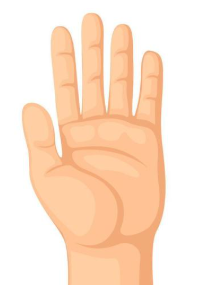
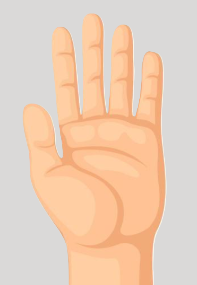
improved the game logic and added hand gestures

diff --git a/assets/script/script.js b/assets/script/script.js
@@ -4,6 +4,7 @@ let results = document.getElementById('results');
 let gameArea = document.getElementById('gameArea');
 let userPickDiv = document.getElementById('userPick');
 let computerPickDiv = document.getElementById('computerPick');
+let feedbackDiv = document.getElementById('feedback');
 let winsCountTd = document.getElementById('winscount');
 let tiesCountTd = document.getElementById('tiescount');
 let lossesCountTd = document.getElementById('lossescount');
@@ -13,6 +14,7 @@ let wins = 0;
 let ties = 0;
 let losses = 0;
 
+//Dynamically create images
 let rockImg = document.createElement('img');
 let paperImg = document.createElement('img');
 let scissorsImg = document.createElement('img');
@@ -20,8 +22,8 @@ rockImg.setAttribute('src', './assets/images/rockimage.PNG');
 paperImg.setAttribute('src', './assets/images/paperimage.PNG');
 scissorsImg.setAttribute('src', './assets/images/scissorsimage.PNG');
 
-//sets up the array of options
-const options = [rockImg, paperImg, scissorsImg];
+//sets up the array of image options
+const optionsRPS = [rockImg, paperImg, scissorsImg];
 
 //this function updates the webpage's results table accordingly
 function updateResultsTable() {
@@ -36,33 +38,38 @@ startButton.addEventListener('click', () => {
 });
 //Event listener on userPickDiv
 userPickDiv.addEventListener('click', (event) => {
-    //Set user's pick
-    userPickDiv.textContent = '';
-    let userPick = event.target;
-    userPickDiv.appendChild(userPick);
-
-    //Set computer's pick
-    let randomCompPick = options[Math.floor(Math.random() * options.length)];
-    computerPickDiv.appendChild(randomCompPick);
-
-    console.log(userPick);
-    console.log(randomCompPick);
-    //Check who if win, tie, or loss
-    if (userPick.src === randomCompPick.src) {
-        ties++;
-        console.log('It is a tie!');
-    } else if (
-        (userPick.src.includes('rockimage.PNG') && randomCompPick.src.includes('scissorsimage.PNG')) ||
-        (userPick.src.includes('paperimage.PNG') && randomCompPick.src.includes('rockimage.PNG')) ||
-        (userPick.src.includes('scissorsimage.PNG') && randomCompPick.src.includes('paperimage.PNG'))) {
-            wins++;
-            console.log('You win!');
-        } else {
-            losses++;
-            console.log('You loose!');
-        }
-    //runs the update results table function after each round
-    updateResultsTable();
+    if (event.target.tagName === 'IMG') {
+        //Set user's pick
+        let userPick = document.createElement('img');
+        userPick.setAttribute('src', event.target.src);
+        //Clear the userPickDiv
+        userPickDiv.textContent = '';
+        //Append selected image to the dedicated div
+        userPickDiv.appendChild(userPick);
+    
+        //Set computer's pick
+        let randomCompPick = optionsRPS[Math.floor(Math.random() * optionsRPS.length)];
+        computerPickDiv.appendChild(randomCompPick);
+    
+        console.log(userPick);
+        console.log(randomCompPick);
+        //Check who if win, tie, or loss
+        if (userPick.src === randomCompPick.src) {
+            ties++;
+            feedbackDiv.textContent = `It's a tie!`;
+        } else if (
+            (userPick.src.includes('rockimage.PNG') && randomCompPick.src.includes('scissorsimage.PNG')) ||
+            (userPick.src.includes('paperimage.PNG') && randomCompPick.src.includes('rockimage.PNG')) ||
+            (userPick.src.includes('scissorsimage.PNG') && randomCompPick.src.includes('paperimage.PNG'))) {
+                wins++;
+                feedbackDiv.textContent = `You win!`;
+            } else {
+                losses++;
+                feedbackDiv.textContent = `You loose!`;
+            }
+        //runs the update results table function after each round
+        updateResultsTable();
+    }
 });
 
 //Function to start game
@@ -70,6 +77,7 @@ function startGame() {
     //Clears out game area
     userPickDiv.textContent = '';
     computerPickDiv.textContent = '';
+    feedbackDiv.textContent = '';
     //Append images to userPickDiv
     userPickDiv.append(rockImg, paperImg, scissorsImg);
-}
+};

diff --git a/assets/styles/styles.css b/assets/styles/styles.css
@@ -1,19 +1,46 @@
-#title,#subtitle,#buttonarea,#results {
+* {
+    margin: 0px;
+    padding: 0px;
+    font-family: serif;
+    font-size: 20px;
+    line-height: 1.5;
+}
+body{
+    background-color: rgb(218, 217, 216);
+}
+#title,#subtitle,#buttonarea,#feedback,#results {
     display: flex;
     justify-content: center;
 }
+#gameArea {
+    display: flex;
+    justify-content: space-evenly;
+}
+#feedback {
+    margin-top: 10px;
+    margin-bottom: 10px;
+}
+#title {
+    font-size: 25px;
+    margin-top: 10px;
+    margin-bottom: 10px;
+}
 #subtitle {
     font-size: 20px;
+    margin-bottom: 15px;
 }
 #start {
-    width: 200px;
-    height: 100px;
-    background-color: blue;
+    width: 150px;
+    height: 75px;
+    background-color: rgb(132, 204, 228);
     color: white;
     font-size: 25px;
+    border-radius: 25px;
+    border: none;
+    margin: 15px;
 }
 #start:hover {
-    background-color: red;
+    background-color: rgb(202, 78, 78);
     box-shadow: 0 0 10px gray;
 }
 #start:active {
@@ -26,4 +53,7 @@
 .count {
     width: 70px;
     text-align: end;
+}
+img {
+    height: 180px;
 }

diff --git a/index.html b/index.html
@@ -4,10 +4,10 @@
     <link rel="stylesheet" href="./assets/styles/styles.css">
 </head>
 <body>
-    <h1 id="title">Let's Play a Game!</h1>
-    <p id="subtitle">Rock, Paper, Scissors</p>
+    <h1 id="title">Let's Play</h1>
+    <h2 id="subtitle">Rock, Paper, Scissors!</h2>
     <div id="buttonarea">
-        <button id="start">Start</button>
+        <button id="start">Play</button>
     </div>
     <div id="gameArea">
         <div id="userPick">
@@ -16,6 +16,9 @@
         <div id="computerPick">
 
         </div>
+    </div>
+    <div id="feedback">
+
     </div>
     <div id="results">
         <table>
